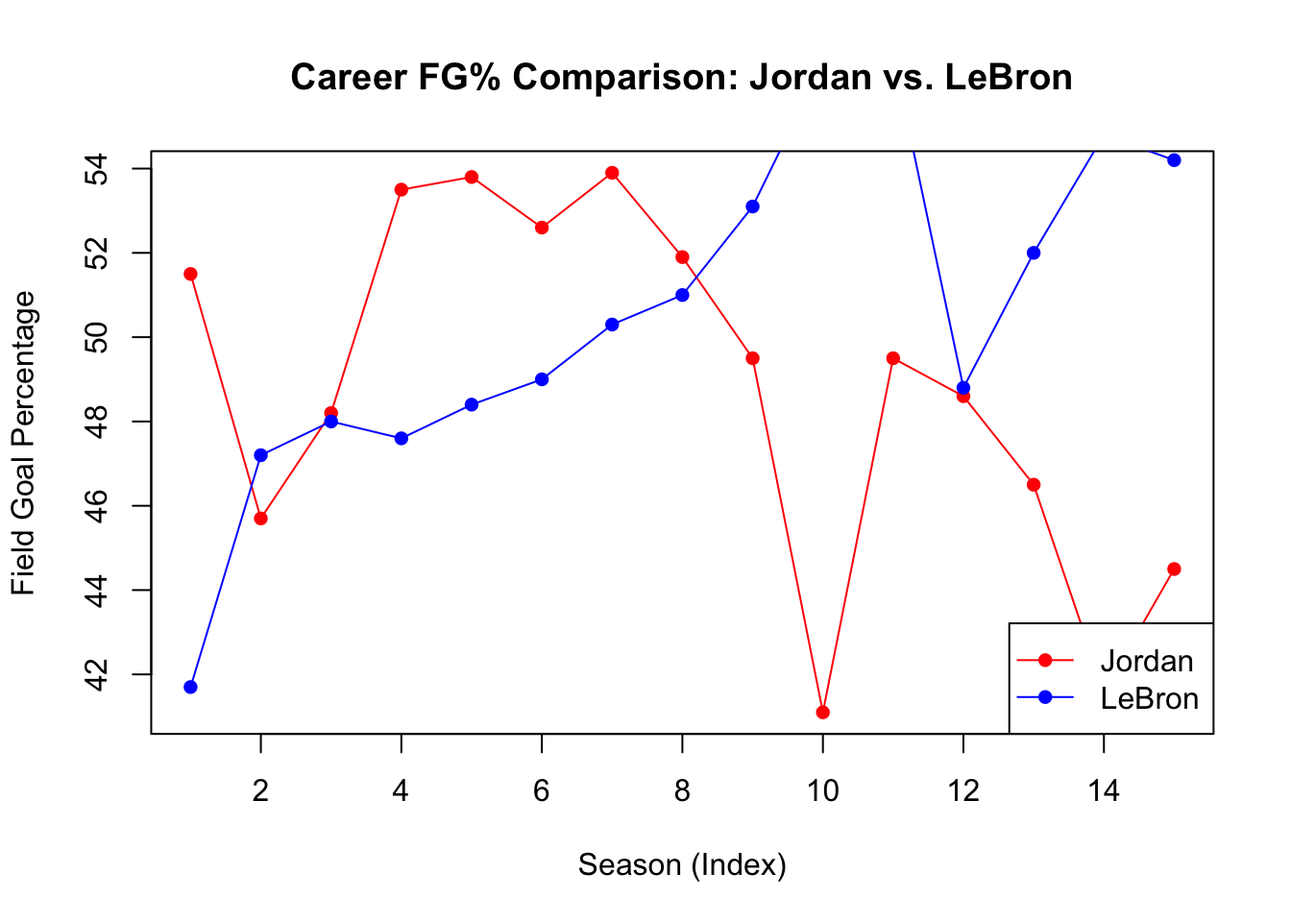
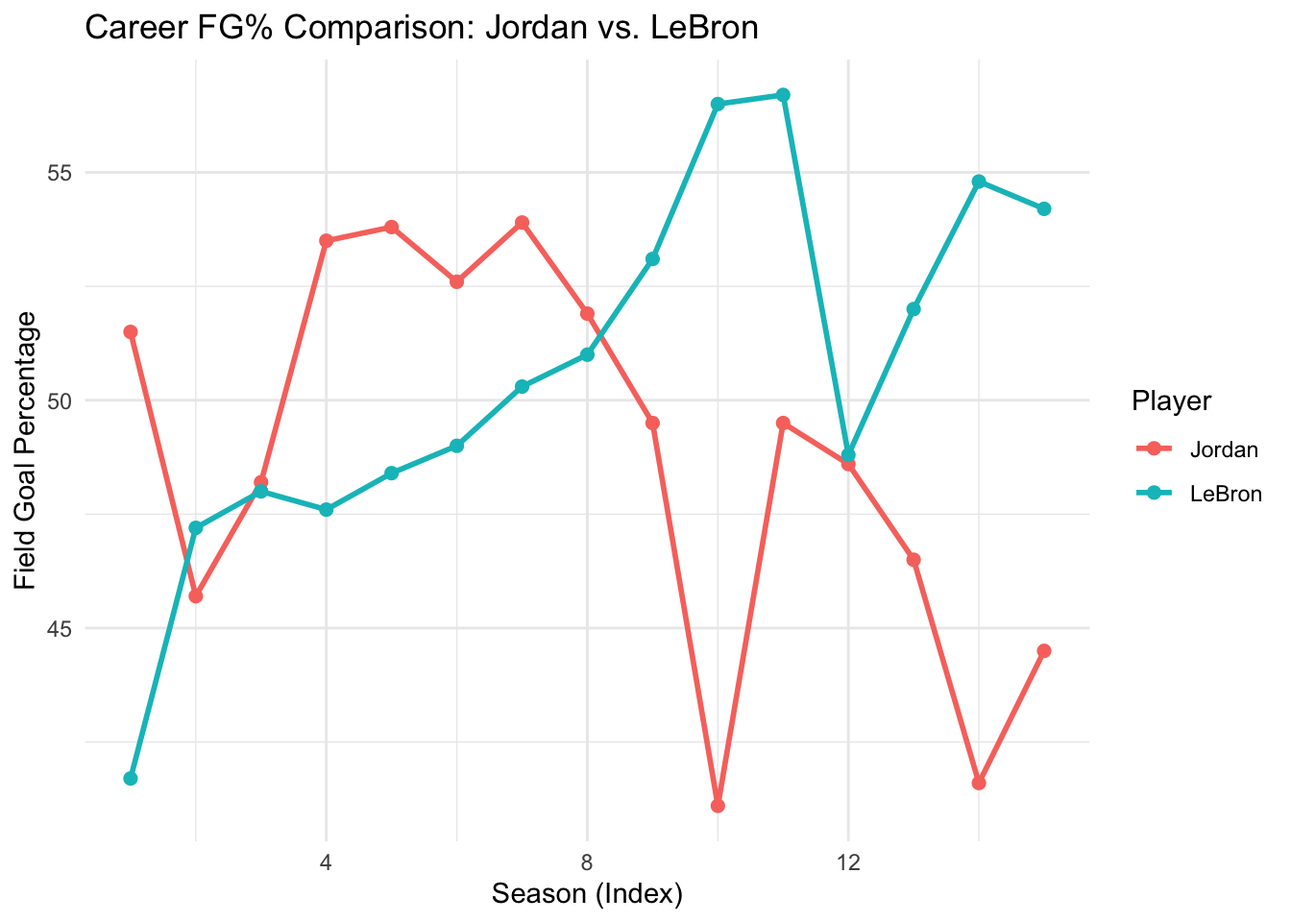
made edits

diff --git a/index.html b/index.html
@@ -163,11 +163,36 @@ pre > code.sourceCode > span > a:first-child::before { text-decoration: underlin
 <p>Milestone Progression</p>
 <p>One of the first indicators of LeBron’s scoring prowess is how quickly he reached key milestones. LeBron surpassed 10,000, 20,000, and 30,000 career points faster than Jordan in terms of games played. This achievement is a testament not only to his scoring consistency but also to his ability to perform at an elite level over a long career. Jordan was undoubtedly explosive, but LeBron’s sustained dominance over more games shows his efficiency and adaptability in scoring across eras, teams, and playstyles.</p>
 <div class="cell">
+<div class="sourceCode cell-code" id="cb1"><pre class="sourceCode r code-with-copy"><code class="sourceCode r"><span id="cb1-1"><a href="#cb1-1" aria-hidden="true" tabindex="-1"></a><span class="co"># Load ggplot2 library</span></span>
+<span id="cb1-2"><a href="#cb1-2" aria-hidden="true" tabindex="-1"></a><span class="fu">library</span>(ggplot2)</span>
+<span id="cb1-3"><a href="#cb1-3" aria-hidden="true" tabindex="-1"></a></span>
+<span id="cb1-4"><a href="#cb1-4" aria-hidden="true" tabindex="-1"></a><span class="co"># Milestone progression data</span></span>
+<span id="cb1-5"><a href="#cb1-5" aria-hidden="true" tabindex="-1"></a>milestones <span class="ot">&lt;-</span> <span class="fu">data.frame</span>(</span>
+<span id="cb1-6"><a href="#cb1-6" aria-hidden="true" tabindex="-1"></a>  <span class="at">Player =</span> <span class="fu">c</span>(<span class="st">"Jordan"</span>, <span class="st">"Jordan"</span>, <span class="st">"Jordan"</span>, <span class="st">"LeBron"</span>, <span class="st">"LeBron"</span>, <span class="st">"LeBron"</span>),</span>
+<span id="cb1-7"><a href="#cb1-7" aria-hidden="true" tabindex="-1"></a>  <span class="at">Milestone =</span> <span class="fu">c</span>(<span class="dv">10000</span>, <span class="dv">20000</span>, <span class="dv">30000</span>, <span class="dv">10000</span>, <span class="dv">20000</span>, <span class="dv">30000</span>),</span>
+<span id="cb1-8"><a href="#cb1-8" aria-hidden="true" tabindex="-1"></a>  <span class="at">Games_Played =</span> <span class="fu">c</span>(<span class="dv">303</span>, <span class="dv">620</span>, <span class="dv">960</span>, <span class="dv">368</span>, <span class="dv">726</span>, <span class="dv">1072</span>)</span>
+<span id="cb1-9"><a href="#cb1-9" aria-hidden="true" tabindex="-1"></a>)</span>
+<span id="cb1-10"><a href="#cb1-10" aria-hidden="true" tabindex="-1"></a></span>
+<span id="cb1-11"><a href="#cb1-11" aria-hidden="true" tabindex="-1"></a><span class="co"># Plotting the milestone progression using ggplot2</span></span>
+<span id="cb1-12"><a href="#cb1-12" aria-hidden="true" tabindex="-1"></a><span class="fu">ggplot</span>(milestones, <span class="fu">aes</span>(<span class="at">x =</span> Games_Played, <span class="at">y =</span> Milestone, <span class="at">color =</span> Player, <span class="at">group =</span> Player)) <span class="sc">+</span></span>
+<span id="cb1-13"><a href="#cb1-13" aria-hidden="true" tabindex="-1"></a>  <span class="fu">geom_line</span>(<span class="at">size =</span> <span class="fl">1.2</span>) <span class="sc">+</span></span>
+<span id="cb1-14"><a href="#cb1-14" aria-hidden="true" tabindex="-1"></a>  <span class="fu">geom_point</span>(<span class="at">size =</span> <span class="dv">3</span>) <span class="sc">+</span></span>
+<span id="cb1-15"><a href="#cb1-15" aria-hidden="true" tabindex="-1"></a>  <span class="fu">scale_color_manual</span>(<span class="at">values =</span> <span class="fu">c</span>(<span class="st">"Jordan"</span> <span class="ot">=</span> <span class="st">"red"</span>, <span class="st">"LeBron"</span> <span class="ot">=</span> <span class="st">"blue"</span>)) <span class="sc">+</span></span>
+<span id="cb1-16"><a href="#cb1-16" aria-hidden="true" tabindex="-1"></a>  <span class="fu">labs</span>(</span>
+<span id="cb1-17"><a href="#cb1-17" aria-hidden="true" tabindex="-1"></a>    <span class="at">title =</span> <span class="st">"Scoring Milestones: Jordan vs. LeBron"</span>,</span>
+<span id="cb1-18"><a href="#cb1-18" aria-hidden="true" tabindex="-1"></a>    <span class="at">x =</span> <span class="st">"Games Played"</span>,</span>
+<span id="cb1-19"><a href="#cb1-19" aria-hidden="true" tabindex="-1"></a>    <span class="at">y =</span> <span class="st">"Points"</span>,</span>
+<span id="cb1-20"><a href="#cb1-20" aria-hidden="true" tabindex="-1"></a>    <span class="at">color =</span> <span class="st">"Player"</span></span>
+<span id="cb1-21"><a href="#cb1-21" aria-hidden="true" tabindex="-1"></a>  ) <span class="sc">+</span></span>
+<span id="cb1-22"><a href="#cb1-22" aria-hidden="true" tabindex="-1"></a>  <span class="fu">theme_minimal</span>()</span></code><button title="Copy to Clipboard" class="code-copy-button"><i class="bi"></i></button></pre></div>
+<div class="cell-output cell-output-stderr">
+<pre><code>Warning: Using `size` aesthetic for lines was deprecated in ggplot2 3.4.0.
+ℹ Please use `linewidth` instead.</code></pre>
+</div>
 <div class="cell-output-display">
-<div class="quarto-figure quarto-figure-center">
+<div>
 <figure class="figure">
-<p><img src="index_files/figure-html/milestone-progression-chart-1.png" class="img-fluid figure-img" width="672"></p>
-<figcaption>Milestone Progression Chart: Jordan vs.&nbsp;LeBron</figcaption>
+<p><img src="index_files/figure-html/unnamed-chunk-1-1.png" class="img-fluid figure-img" width="672"></p>
 </figure>
 </div>
 </div>
@@ -175,22 +200,30 @@ pre > code.sourceCode > span > a:first-child::before { text-decoration: underlin
 <p>Field Goal Percentage Over Their Careers</p>
 <p>Efficiency is another major factor in this debate. Over their careers, LeBron has consistently maintained a higher field goal percentage compared to Jordan. Even as LeBron aged, his shooting percentages remained strong, thanks to his ability to evolve his game. From attacking the rim to developing a more polished jump shot, LeBron has shown a level of efficiency that few players in NBA history can match. While Jordan had legendary scoring bursts, his efficiency often fluctuated due to his heavy reliance on mid-range shots and the physical toll of his style of play.</p>
 <div class="cell">
-<div class="sourceCode cell-code" id="cb1"><pre class="sourceCode r code-with-copy"><code class="sourceCode r"><span id="cb1-1"><a href="#cb1-1" aria-hidden="true" tabindex="-1"></a><span class="co"># Data for Jordan and LeBron</span></span>
-<span id="cb1-2"><a href="#cb1-2" aria-hidden="true" tabindex="-1"></a>jordan_data <span class="ot">&lt;-</span> <span class="fu">data.frame</span>(</span>
-<span id="cb1-3"><a href="#cb1-3" aria-hidden="true" tabindex="-1"></a>    <span class="at">season =</span> <span class="dv">1</span><span class="sc">:</span><span class="dv">15</span>,</span>
-<span id="cb1-4"><a href="#cb1-4" aria-hidden="true" tabindex="-1"></a>    <span class="at">FG_Percentage =</span> <span class="fu">c</span>(<span class="fl">51.5</span>, <span class="fl">45.7</span>, <span class="fl">48.2</span>, <span class="fl">53.5</span>, <span class="fl">53.8</span>, <span class="fl">52.6</span>, <span class="fl">53.9</span>, <span class="fl">51.9</span>, <span class="fl">49.5</span>, <span class="fl">41.1</span>, <span class="fl">49.5</span>, <span class="fl">48.6</span>, <span class="fl">46.5</span>, <span class="fl">41.6</span>, <span class="fl">44.5</span>)</span>
-<span id="cb1-5"><a href="#cb1-5" aria-hidden="true" tabindex="-1"></a>)</span>
-<span id="cb1-6"><a href="#cb1-6" aria-hidden="true" tabindex="-1"></a> </span>
-<span id="cb1-7"><a href="#cb1-7" aria-hidden="true" tabindex="-1"></a>lebron_data <span class="ot">&lt;-</span> <span class="fu">data.frame</span>(</span>
-<span id="cb1-8"><a href="#cb1-8" aria-hidden="true" tabindex="-1"></a>    <span class="at">season =</span> <span class="dv">1</span><span class="sc">:</span><span class="dv">15</span>,</span>
-<span id="cb1-9"><a href="#cb1-9" aria-hidden="true" tabindex="-1"></a>    <span class="at">FG_Percentage =</span> <span class="fu">c</span>(<span class="fl">41.7</span>, <span class="fl">47.2</span>, <span class="fl">48.0</span>, <span class="fl">47.6</span>, <span class="fl">48.4</span>, <span class="fl">49.0</span>, <span class="fl">50.3</span>, <span class="fl">51.0</span>, <span class="fl">53.1</span>, <span class="fl">56.5</span>, <span class="fl">56.7</span>, <span class="fl">48.8</span>, <span class="fl">52.0</span>, <span class="fl">54.8</span>, <span class="fl">54.2</span>)</span>
-<span id="cb1-10"><a href="#cb1-10" aria-hidden="true" tabindex="-1"></a>)</span>
-<span id="cb1-11"><a href="#cb1-11" aria-hidden="true" tabindex="-1"></a> </span>
-<span id="cb1-12"><a href="#cb1-12" aria-hidden="true" tabindex="-1"></a><span class="co"># Field Goal Percentage Line Plot</span></span>
-<span id="cb1-13"><a href="#cb1-13" aria-hidden="true" tabindex="-1"></a><span class="fu">plot</span>(jordan_data<span class="sc">$</span>season, jordan_data<span class="sc">$</span>FG_Percentage, <span class="at">type=</span><span class="st">"o"</span>, <span class="at">col=</span><span class="st">"red"</span>, <span class="at">pch=</span><span class="dv">16</span>,</span>
-<span id="cb1-14"><a href="#cb1-14" aria-hidden="true" tabindex="-1"></a>    <span class="at">xlab=</span><span class="st">"Season (Index)"</span>, <span class="at">ylab=</span><span class="st">"Field Goal Percentage"</span>, <span class="at">main=</span><span class="st">"Career FG% Comparison: Jordan vs. LeBron"</span>)</span>
-<span id="cb1-15"><a href="#cb1-15" aria-hidden="true" tabindex="-1"></a><span class="fu">lines</span>(lebron_data<span class="sc">$</span>season, lebron_data<span class="sc">$</span>FG_Percentage, <span class="at">type=</span><span class="st">"o"</span>, <span class="at">col=</span><span class="st">"blue"</span>, <span class="at">pch=</span><span class="dv">16</span>)</span>
-<span id="cb1-16"><a href="#cb1-16" aria-hidden="true" tabindex="-1"></a><span class="fu">legend</span>(<span class="st">"bottomright"</span>, <span class="at">legend=</span><span class="fu">c</span>(<span class="st">"Jordan"</span>, <span class="st">"LeBron"</span>), <span class="at">col=</span><span class="fu">c</span>(<span class="st">"red"</span>, <span class="st">"blue"</span>), <span class="at">lty=</span><span class="dv">1</span>, <span class="at">pch=</span><span class="dv">16</span>)</span></code><button title="Copy to Clipboard" class="code-copy-button"><i class="bi"></i></button></pre></div>
+<div class="sourceCode cell-code" id="cb3"><pre class="sourceCode r code-with-copy"><code class="sourceCode r"><span id="cb3-1"><a href="#cb3-1" aria-hidden="true" tabindex="-1"></a><span class="co"># Load the ggplot2 library</span></span>
+<span id="cb3-2"><a href="#cb3-2" aria-hidden="true" tabindex="-1"></a><span class="fu">library</span>(ggplot2)</span>
+<span id="cb3-3"><a href="#cb3-3" aria-hidden="true" tabindex="-1"></a></span>
+<span id="cb3-4"><a href="#cb3-4" aria-hidden="true" tabindex="-1"></a><span class="co"># Combine Jordan and LeBron data into one dataframe</span></span>
+<span id="cb3-5"><a href="#cb3-5" aria-hidden="true" tabindex="-1"></a>combined_data <span class="ot">&lt;-</span> <span class="fu">data.frame</span>(</span>
+<span id="cb3-6"><a href="#cb3-6" aria-hidden="true" tabindex="-1"></a>  <span class="at">season =</span> <span class="fu">rep</span>(<span class="dv">1</span><span class="sc">:</span><span class="dv">15</span>, <span class="dv">2</span>),</span>
+<span id="cb3-7"><a href="#cb3-7" aria-hidden="true" tabindex="-1"></a>  <span class="at">FG_Percentage =</span> <span class="fu">c</span>(</span>
+<span id="cb3-8"><a href="#cb3-8" aria-hidden="true" tabindex="-1"></a>    <span class="fu">c</span>(<span class="fl">51.5</span>, <span class="fl">45.7</span>, <span class="fl">48.2</span>, <span class="fl">53.5</span>, <span class="fl">53.8</span>, <span class="fl">52.6</span>, <span class="fl">53.9</span>, <span class="fl">51.9</span>, <span class="fl">49.5</span>, <span class="fl">41.1</span>, <span class="fl">49.5</span>, <span class="fl">48.6</span>, <span class="fl">46.5</span>, <span class="fl">41.6</span>, <span class="fl">44.5</span>),</span>
+<span id="cb3-9"><a href="#cb3-9" aria-hidden="true" tabindex="-1"></a>    <span class="fu">c</span>(<span class="fl">41.7</span>, <span class="fl">47.2</span>, <span class="fl">48.0</span>, <span class="fl">47.6</span>, <span class="fl">48.4</span>, <span class="fl">49.0</span>, <span class="fl">50.3</span>, <span class="fl">51.0</span>, <span class="fl">53.1</span>, <span class="fl">56.5</span>, <span class="fl">56.7</span>, <span class="fl">48.8</span>, <span class="fl">52.0</span>, <span class="fl">54.8</span>, <span class="fl">54.2</span>)</span>
+<span id="cb3-10"><a href="#cb3-10" aria-hidden="true" tabindex="-1"></a>  ),</span>
+<span id="cb3-11"><a href="#cb3-11" aria-hidden="true" tabindex="-1"></a>  <span class="at">Player =</span> <span class="fu">rep</span>(<span class="fu">c</span>(<span class="st">"Jordan"</span>, <span class="st">"LeBron"</span>), <span class="at">each =</span> <span class="dv">15</span>)</span>
+<span id="cb3-12"><a href="#cb3-12" aria-hidden="true" tabindex="-1"></a>)</span>
+<span id="cb3-13"><a href="#cb3-13" aria-hidden="true" tabindex="-1"></a></span>
+<span id="cb3-14"><a href="#cb3-14" aria-hidden="true" tabindex="-1"></a><span class="co"># Plot using ggplot2</span></span>
+<span id="cb3-15"><a href="#cb3-15" aria-hidden="true" tabindex="-1"></a><span class="fu">ggplot</span>(combined_data, <span class="fu">aes</span>(<span class="at">x =</span> season, <span class="at">y =</span> FG_Percentage, <span class="at">color =</span> Player, <span class="at">group =</span> Player)) <span class="sc">+</span></span>
+<span id="cb3-16"><a href="#cb3-16" aria-hidden="true" tabindex="-1"></a>  <span class="fu">geom_line</span>(<span class="at">size =</span> <span class="dv">1</span>) <span class="sc">+</span></span>
+<span id="cb3-17"><a href="#cb3-17" aria-hidden="true" tabindex="-1"></a>  <span class="fu">geom_point</span>(<span class="at">size =</span> <span class="dv">2</span>) <span class="sc">+</span></span>
+<span id="cb3-18"><a href="#cb3-18" aria-hidden="true" tabindex="-1"></a>  <span class="fu">labs</span>(</span>
+<span id="cb3-19"><a href="#cb3-19" aria-hidden="true" tabindex="-1"></a>    <span class="at">title =</span> <span class="st">"Career FG% Comparison: Jordan vs. LeBron"</span>,</span>
+<span id="cb3-20"><a href="#cb3-20" aria-hidden="true" tabindex="-1"></a>    <span class="at">x =</span> <span class="st">"Season (Index)"</span>,</span>
+<span id="cb3-21"><a href="#cb3-21" aria-hidden="true" tabindex="-1"></a>    <span class="at">y =</span> <span class="st">"Field Goal Percentage"</span>,</span>
+<span id="cb3-22"><a href="#cb3-22" aria-hidden="true" tabindex="-1"></a>    <span class="at">color =</span> <span class="st">"Player"</span></span>
+<span id="cb3-23"><a href="#cb3-23" aria-hidden="true" tabindex="-1"></a>  ) <span class="sc">+</span></span>
+<span id="cb3-24"><a href="#cb3-24" aria-hidden="true" tabindex="-1"></a>  <span class="fu">theme_minimal</span>()</span></code><button title="Copy to Clipboard" class="code-copy-button"><i class="bi"></i></button></pre></div>
 <div class="cell-output-display">
 <div>
 <figure class="figure">
@@ -202,17 +235,27 @@ pre > code.sourceCode > span > a:first-child::before { text-decoration: underlin
 <p>Scoring Breakdown by Type</p>
 <p>LeBron’s versatility in scoring is unmatched. While Jordan was dominant with his mid-range game and ability to draw fouls, LeBron scores in every way imaginable. The breakdown of their points tells the story: LeBron has a significantly higher volume of three-pointers, showing his ability to adapt to the modern NBA. His balance of two-point, three-point, and free-throw scoring makes him a more well-rounded offensive threat</p>
 <div class="cell">
-<div class="sourceCode cell-code" id="cb2"><pre class="sourceCode r code-with-copy"><code class="sourceCode r"><span id="cb2-1"><a href="#cb2-1" aria-hidden="true" tabindex="-1"></a><span class="co"># Scoring breakdown data</span></span>
-<span id="cb2-2"><a href="#cb2-2" aria-hidden="true" tabindex="-1"></a>scoring_types <span class="ot">&lt;-</span> <span class="fu">c</span>(<span class="st">"2-Pointers"</span>, <span class="st">"3-Pointers"</span>, <span class="st">"Free Throws"</span>)</span>
-<span id="cb2-3"><a href="#cb2-3" aria-hidden="true" tabindex="-1"></a>jordan_scoring <span class="ot">&lt;-</span> <span class="fu">c</span>(<span class="dv">12192</span>, <span class="dv">581</span>, <span class="dv">7327</span>)</span>
-<span id="cb2-4"><a href="#cb2-4" aria-hidden="true" tabindex="-1"></a>lebron_scoring <span class="ot">&lt;-</span> <span class="fu">c</span>(<span class="dv">15000</span>, <span class="dv">2300</span>, <span class="dv">7800</span>)</span>
-<span id="cb2-5"><a href="#cb2-5" aria-hidden="true" tabindex="-1"></a> </span>
-<span id="cb2-6"><a href="#cb2-6" aria-hidden="true" tabindex="-1"></a><span class="co"># Line plot for scoring breakdown</span></span>
-<span id="cb2-7"><a href="#cb2-7" aria-hidden="true" tabindex="-1"></a><span class="fu">plot</span>(<span class="dv">1</span><span class="sc">:</span><span class="dv">3</span>, jordan_scoring, <span class="at">type=</span><span class="st">"o"</span>, <span class="at">col=</span><span class="st">"red"</span>, <span class="at">pch=</span><span class="dv">16</span>, <span class="at">xaxt=</span><span class="st">"n"</span>,</span>
-<span id="cb2-8"><a href="#cb2-8" aria-hidden="true" tabindex="-1"></a>    <span class="at">xlab=</span><span class="st">"Scoring Type"</span>, <span class="at">ylab=</span><span class="st">"Points"</span>, <span class="at">main=</span><span class="st">"Scoring Breakdown: Jordan vs. LeBron"</span>)</span>
-<span id="cb2-9"><a href="#cb2-9" aria-hidden="true" tabindex="-1"></a><span class="fu">axis</span>(<span class="dv">1</span>, <span class="at">at=</span><span class="dv">1</span><span class="sc">:</span><span class="dv">3</span>, <span class="at">labels=</span>scoring_types)</span>
-<span id="cb2-10"><a href="#cb2-10" aria-hidden="true" tabindex="-1"></a><span class="fu">lines</span>(<span class="dv">1</span><span class="sc">:</span><span class="dv">3</span>, lebron_scoring, <span class="at">type=</span><span class="st">"o"</span>, <span class="at">col=</span><span class="st">"blue"</span>, <span class="at">pch=</span><span class="dv">16</span>)</span>
-<span id="cb2-11"><a href="#cb2-11" aria-hidden="true" tabindex="-1"></a><span class="fu">legend</span>(<span class="st">"topright"</span>, <span class="at">legend=</span><span class="fu">c</span>(<span class="st">"Jordan"</span>, <span class="st">"LeBron"</span>), <span class="at">col=</span><span class="fu">c</span>(<span class="st">"red"</span>, <span class="st">"blue"</span>), <span class="at">lty=</span><span class="dv">1</span>, <span class="at">pch=</span><span class="dv">16</span>)</span></code><button title="Copy to Clipboard" class="code-copy-button"><i class="bi"></i></button></pre></div>
+<div class="sourceCode cell-code" id="cb4"><pre class="sourceCode r code-with-copy"><code class="sourceCode r"><span id="cb4-1"><a href="#cb4-1" aria-hidden="true" tabindex="-1"></a><span class="co"># Load the ggplot2 library</span></span>
+<span id="cb4-2"><a href="#cb4-2" aria-hidden="true" tabindex="-1"></a><span class="fu">library</span>(ggplot2)</span>
+<span id="cb4-3"><a href="#cb4-3" aria-hidden="true" tabindex="-1"></a></span>
+<span id="cb4-4"><a href="#cb4-4" aria-hidden="true" tabindex="-1"></a><span class="co"># Combine Jordan and LeBron data into one dataframe</span></span>
+<span id="cb4-5"><a href="#cb4-5" aria-hidden="true" tabindex="-1"></a>scoring_data <span class="ot">&lt;-</span> <span class="fu">data.frame</span>(</span>
+<span id="cb4-6"><a href="#cb4-6" aria-hidden="true" tabindex="-1"></a>  <span class="at">Scoring_Type =</span> <span class="fu">rep</span>(<span class="fu">c</span>(<span class="st">"2-Pointers"</span>, <span class="st">"3-Pointers"</span>, <span class="st">"Free Throws"</span>), <span class="dv">2</span>),</span>
+<span id="cb4-7"><a href="#cb4-7" aria-hidden="true" tabindex="-1"></a>  <span class="at">Points =</span> <span class="fu">c</span>(<span class="dv">12192</span>, <span class="dv">581</span>, <span class="dv">7327</span>, <span class="dv">15000</span>, <span class="dv">2300</span>, <span class="dv">7800</span>),</span>
+<span id="cb4-8"><a href="#cb4-8" aria-hidden="true" tabindex="-1"></a>  <span class="at">Player =</span> <span class="fu">rep</span>(<span class="fu">c</span>(<span class="st">"Jordan"</span>, <span class="st">"LeBron"</span>), <span class="at">each =</span> <span class="dv">3</span>)</span>
+<span id="cb4-9"><a href="#cb4-9" aria-hidden="true" tabindex="-1"></a>)</span>
+<span id="cb4-10"><a href="#cb4-10" aria-hidden="true" tabindex="-1"></a></span>
+<span id="cb4-11"><a href="#cb4-11" aria-hidden="true" tabindex="-1"></a><span class="co"># Plot using ggplot2</span></span>
+<span id="cb4-12"><a href="#cb4-12" aria-hidden="true" tabindex="-1"></a><span class="fu">ggplot</span>(scoring_data, <span class="fu">aes</span>(<span class="at">x =</span> Scoring_Type, <span class="at">y =</span> Points, <span class="at">group =</span> Player, <span class="at">color =</span> Player)) <span class="sc">+</span></span>
+<span id="cb4-13"><a href="#cb4-13" aria-hidden="true" tabindex="-1"></a>  <span class="fu">geom_line</span>(<span class="at">size =</span> <span class="dv">1</span>) <span class="sc">+</span></span>
+<span id="cb4-14"><a href="#cb4-14" aria-hidden="true" tabindex="-1"></a>  <span class="fu">geom_point</span>(<span class="at">size =</span> <span class="dv">3</span>) <span class="sc">+</span></span>
+<span id="cb4-15"><a href="#cb4-15" aria-hidden="true" tabindex="-1"></a>  <span class="fu">labs</span>(</span>
+<span id="cb4-16"><a href="#cb4-16" aria-hidden="true" tabindex="-1"></a>    <span class="at">title =</span> <span class="st">"Scoring Breakdown: Jordan vs. LeBron"</span>,</span>
+<span id="cb4-17"><a href="#cb4-17" aria-hidden="true" tabindex="-1"></a>    <span class="at">x =</span> <span class="st">"Scoring Type"</span>,</span>
+<span id="cb4-18"><a href="#cb4-18" aria-hidden="true" tabindex="-1"></a>    <span class="at">y =</span> <span class="st">"Points"</span>,</span>
+<span id="cb4-19"><a href="#cb4-19" aria-hidden="true" tabindex="-1"></a>    <span class="at">color =</span> <span class="st">"Player"</span></span>
+<span id="cb4-20"><a href="#cb4-20" aria-hidden="true" tabindex="-1"></a>  ) <span class="sc">+</span></span>
+<span id="cb4-21"><a href="#cb4-21" aria-hidden="true" tabindex="-1"></a>  <span class="fu">theme_minimal</span>()</span></code><button title="Copy to Clipboard" class="code-copy-button"><i class="bi"></i></button></pre></div>
 <div class="cell-output-display">
 <div>
 <figure class="figure">
@@ -224,22 +267,70 @@ pre > code.sourceCode > span > a:first-child::before { text-decoration: underlin
 <p>Points Per Game Over the Seasons</p>
 <p>Consistency is where LeBron truly shines. Over 15 seasons, LeBron’s points-per-game averages remained remarkably stable, with almost no major dips even as he entered the latter stages of his career. Jordan, on the other hand, had a few seasons where his scoring dipped noticeably, particularly during his comeback years. LeBron’s ability to consistently produce at a high level, regardless of the team he’s on or the system he’s in, demonstrates his unparalleled durability and impact as a scorer.</p>
 <div class="cell">
-<div class="sourceCode cell-code" id="cb3"><pre class="sourceCode r code-with-copy"><code class="sourceCode r"><span id="cb3-1"><a href="#cb3-1" aria-hidden="true" tabindex="-1"></a><span class="co"># Data for Jordan and LeBron</span></span>
-<span id="cb3-2"><a href="#cb3-2" aria-hidden="true" tabindex="-1"></a>jordan_points <span class="ot">&lt;-</span> <span class="fu">data.frame</span>(</span>
-<span id="cb3-3"><a href="#cb3-3" aria-hidden="true" tabindex="-1"></a>    <span class="at">season =</span> <span class="dv">1</span><span class="sc">:</span><span class="dv">15</span>,</span>
-<span id="cb3-4"><a href="#cb3-4" aria-hidden="true" tabindex="-1"></a>    <span class="at">PTS =</span> <span class="fu">c</span>(<span class="fl">28.2</span>, <span class="fl">22.7</span>, <span class="fl">37.1</span>, <span class="fl">35.0</span>, <span class="fl">32.5</span>, <span class="fl">33.6</span>, <span class="fl">31.5</span>, <span class="fl">30.1</span>, <span class="fl">32.6</span>, <span class="fl">26.9</span>, <span class="fl">30.4</span>, <span class="fl">29.6</span>, <span class="fl">28.7</span>, <span class="fl">22.9</span>, <span class="fl">20.0</span>)</span>
-<span id="cb3-5"><a href="#cb3-5" aria-hidden="true" tabindex="-1"></a>)</span>
-<span id="cb3-6"><a href="#cb3-6" aria-hidden="true" tabindex="-1"></a> </span>
-<span id="cb3-7"><a href="#cb3-7" aria-hidden="true" tabindex="-1"></a>lebron_points <span class="ot">&lt;-</span> <span class="fu">data.frame</span>(</span>
-<span id="cb3-8"><a href="#cb3-8" aria-hidden="true" tabindex="-1"></a>    <span class="at">season =</span> <span class="dv">1</span><span class="sc">:</span><span class="dv">15</span>,</span>
-<span id="cb3-9"><a href="#cb3-9" aria-hidden="true" tabindex="-1"></a>    <span class="at">PTS =</span> <span class="fu">c</span>(<span class="fl">20.9</span>, <span class="fl">27.2</span>, <span class="fl">31.4</span>, <span class="fl">27.3</span>, <span class="fl">30.0</span>, <span class="fl">28.4</span>, <span class="fl">29.7</span>, <span class="fl">26.7</span>, <span class="fl">27.1</span>, <span class="fl">27.1</span>, <span class="fl">27.1</span>, <span class="fl">25.3</span>, <span class="fl">25.3</span>, <span class="fl">26.4</span>, <span class="fl">27.5</span>)</span>
-<span id="cb3-10"><a href="#cb3-10" aria-hidden="true" tabindex="-1"></a>)</span>
-<span id="cb3-11"><a href="#cb3-11" aria-hidden="true" tabindex="-1"></a> </span>
-<span id="cb3-12"><a href="#cb3-12" aria-hidden="true" tabindex="-1"></a><span class="co"># Line Plot for Points Per Game Over Seasons</span></span>
-<span id="cb3-13"><a href="#cb3-13" aria-hidden="true" tabindex="-1"></a><span class="fu">plot</span>(jordan_points<span class="sc">$</span>season, jordan_points<span class="sc">$</span>PTS, <span class="at">type=</span><span class="st">"o"</span>, <span class="at">col=</span><span class="st">"red"</span>, <span class="at">pch=</span><span class="dv">16</span>,</span>
-<span id="cb3-14"><a href="#cb3-14" aria-hidden="true" tabindex="-1"></a>    <span class="at">xlab=</span><span class="st">"Season (Index)"</span>, <span class="at">ylab=</span><span class="st">"Points Per Game"</span>, <span class="at">main=</span><span class="st">"PPG Comparison: Jordan vs. LeBron"</span>)</span>
-<span id="cb3-15"><a href="#cb3-15" aria-hidden="true" tabindex="-1"></a><span class="fu">lines</span>(lebron_points<span class="sc">$</span>season, lebron_points<span class="sc">$</span>PTS, <span class="at">type=</span><span class="st">"o"</span>, <span class="at">col=</span><span class="st">"blue"</span>, <span class="at">pch=</span><span class="dv">16</span>)</span>
-<span id="cb3-16"><a href="#cb3-16" aria-hidden="true" tabindex="-1"></a><span class="fu">legend</span>(<span class="st">"topright"</span>, <span class="at">legend=</span><span class="fu">c</span>(<span class="st">"Jordan"</span>, <span class="st">"LeBron"</span>), <span class="at">col=</span><span class="fu">c</span>(<span class="st">"red"</span>, <span class="st">"blue"</span>), <span class="at">lty=</span><span class="dv">1</span>, <span class="at">pch=</span><span class="dv">16</span>)</span></code><button title="Copy to Clipboard" class="code-copy-button"><i class="bi"></i></button></pre></div>
+<div class="sourceCode cell-code" id="cb5"><pre class="sourceCode r code-with-copy"><code class="sourceCode r"><span id="cb5-1"><a href="#cb5-1" aria-hidden="true" tabindex="-1"></a><span class="co"># Load required libraries</span></span>
+<span id="cb5-2"><a href="#cb5-2" aria-hidden="true" tabindex="-1"></a><span class="fu">library</span>(ggplot2)</span>
+<span id="cb5-3"><a href="#cb5-3" aria-hidden="true" tabindex="-1"></a><span class="fu">library</span>(dplyr)</span></code><button title="Copy to Clipboard" class="code-copy-button"><i class="bi"></i></button></pre></div>
+<div class="cell-output cell-output-stderr">
+<pre><code>
+Attaching package: 'dplyr'</code></pre>
+</div>
+<div class="cell-output cell-output-stderr">
+<pre><code>The following objects are masked from 'package:stats':
+
+    filter, lag</code></pre>
+</div>
+<div class="cell-output cell-output-stderr">
+<pre><code>The following objects are masked from 'package:base':
+
+    intersect, setdiff, setequal, union</code></pre>
+</div>
+<div class="sourceCode cell-code" id="cb9"><pre class="sourceCode r code-with-copy"><code class="sourceCode r"><span id="cb9-1"><a href="#cb9-1" aria-hidden="true" tabindex="-1"></a><span class="fu">library</span>(tidyr)</span>
+<span id="cb9-2"><a href="#cb9-2" aria-hidden="true" tabindex="-1"></a></span>
+<span id="cb9-3"><a href="#cb9-3" aria-hidden="true" tabindex="-1"></a><span class="co"># Data: Breakdown of total points by scoring method</span></span>
+<span id="cb9-4"><a href="#cb9-4" aria-hidden="true" tabindex="-1"></a>scoring_breakdown <span class="ot">&lt;-</span> <span class="fu">data.frame</span>(</span>
+<span id="cb9-5"><a href="#cb9-5" aria-hidden="true" tabindex="-1"></a>  <span class="at">Player =</span> <span class="fu">rep</span>(<span class="fu">c</span>(<span class="st">"Jordan"</span>, <span class="st">"LeBron"</span>), <span class="at">each =</span> <span class="dv">3</span>),</span>
+<span id="cb9-6"><a href="#cb9-6" aria-hidden="true" tabindex="-1"></a>  <span class="at">Scoring_Type =</span> <span class="fu">c</span>(<span class="st">"2-Pointers"</span>, <span class="st">"3-Pointers"</span>, <span class="st">"Free Throws"</span>, <span class="st">"2-Pointers"</span>, <span class="st">"3-Pointers"</span>, <span class="st">"Free Throws"</span>),</span>
+<span id="cb9-7"><a href="#cb9-7" aria-hidden="true" tabindex="-1"></a>  <span class="at">Points =</span> <span class="fu">c</span>(<span class="dv">12192</span>, <span class="dv">581</span>, <span class="dv">7327</span>, <span class="dv">15000</span>, <span class="dv">2300</span>, <span class="dv">7800</span>)</span>
+<span id="cb9-8"><a href="#cb9-8" aria-hidden="true" tabindex="-1"></a>)</span>
+<span id="cb9-9"><a href="#cb9-9" aria-hidden="true" tabindex="-1"></a></span>
+<span id="cb9-10"><a href="#cb9-10" aria-hidden="true" tabindex="-1"></a><span class="co"># Calculate percentages for waffle chart proportions</span></span>
+<span id="cb9-11"><a href="#cb9-11" aria-hidden="true" tabindex="-1"></a>scoring_breakdown <span class="ot">&lt;-</span> scoring_breakdown <span class="sc">%&gt;%</span></span>
+<span id="cb9-12"><a href="#cb9-12" aria-hidden="true" tabindex="-1"></a>  <span class="fu">group_by</span>(Player) <span class="sc">%&gt;%</span></span>
+<span id="cb9-13"><a href="#cb9-13" aria-hidden="true" tabindex="-1"></a>  <span class="fu">mutate</span>(<span class="at">Percent =</span> Points <span class="sc">/</span> <span class="fu">sum</span>(Points) <span class="sc">*</span> <span class="dv">100</span>)</span>
+<span id="cb9-14"><a href="#cb9-14" aria-hidden="true" tabindex="-1"></a></span>
+<span id="cb9-15"><a href="#cb9-15" aria-hidden="true" tabindex="-1"></a><span class="co"># Create a waffle dataset for visualization</span></span>
+<span id="cb9-16"><a href="#cb9-16" aria-hidden="true" tabindex="-1"></a>waffle_data <span class="ot">&lt;-</span> scoring_breakdown <span class="sc">%&gt;%</span></span>
+<span id="cb9-17"><a href="#cb9-17" aria-hidden="true" tabindex="-1"></a>  <span class="fu">group_by</span>(Player, Scoring_Type) <span class="sc">%&gt;%</span></span>
+<span id="cb9-18"><a href="#cb9-18" aria-hidden="true" tabindex="-1"></a>  <span class="fu">mutate</span>(<span class="at">Tiles =</span> <span class="fu">round</span>(Percent)) <span class="sc">%&gt;%</span></span>
+<span id="cb9-19"><a href="#cb9-19" aria-hidden="true" tabindex="-1"></a>  <span class="fu">uncount</span>(Tiles)</span>
+<span id="cb9-20"><a href="#cb9-20" aria-hidden="true" tabindex="-1"></a></span>
+<span id="cb9-21"><a href="#cb9-21" aria-hidden="true" tabindex="-1"></a><span class="co"># Add positional information for the waffle chart</span></span>
+<span id="cb9-22"><a href="#cb9-22" aria-hidden="true" tabindex="-1"></a>waffle_data <span class="ot">&lt;-</span> waffle_data <span class="sc">%&gt;%</span></span>
+<span id="cb9-23"><a href="#cb9-23" aria-hidden="true" tabindex="-1"></a>  <span class="fu">group_by</span>(Player) <span class="sc">%&gt;%</span></span>
+<span id="cb9-24"><a href="#cb9-24" aria-hidden="true" tabindex="-1"></a>  <span class="fu">mutate</span>(</span>
+<span id="cb9-25"><a href="#cb9-25" aria-hidden="true" tabindex="-1"></a>    <span class="at">X =</span> (<span class="fu">row_number</span>() <span class="sc">-</span> <span class="dv">1</span>) <span class="sc">%%</span> <span class="dv">10</span> <span class="sc">+</span> <span class="dv">1</span>,</span>
+<span id="cb9-26"><a href="#cb9-26" aria-hidden="true" tabindex="-1"></a>    <span class="at">Y =</span> (<span class="fu">row_number</span>() <span class="sc">-</span> <span class="dv">1</span>) <span class="sc">%/%</span> <span class="dv">10</span> <span class="sc">+</span> <span class="dv">1</span></span>
+<span id="cb9-27"><a href="#cb9-27" aria-hidden="true" tabindex="-1"></a>  )</span>
+<span id="cb9-28"><a href="#cb9-28" aria-hidden="true" tabindex="-1"></a></span>
+<span id="cb9-29"><a href="#cb9-29" aria-hidden="true" tabindex="-1"></a><span class="co"># Plot the waffle chart</span></span>
+<span id="cb9-30"><a href="#cb9-30" aria-hidden="true" tabindex="-1"></a><span class="fu">ggplot</span>(waffle_data, <span class="fu">aes</span>(<span class="at">x =</span> X, <span class="at">y =</span> Y, <span class="at">fill =</span> Scoring_Type)) <span class="sc">+</span></span>
+<span id="cb9-31"><a href="#cb9-31" aria-hidden="true" tabindex="-1"></a>  <span class="fu">geom_tile</span>(<span class="at">color =</span> <span class="st">"white"</span>, <span class="at">size =</span> <span class="fl">0.5</span>) <span class="sc">+</span></span>
+<span id="cb9-32"><a href="#cb9-32" aria-hidden="true" tabindex="-1"></a>  <span class="fu">facet_wrap</span>(<span class="sc">~</span> Player, <span class="at">ncol =</span> <span class="dv">1</span>) <span class="sc">+</span></span>
+<span id="cb9-33"><a href="#cb9-33" aria-hidden="true" tabindex="-1"></a>  <span class="fu">scale_fill_manual</span>(<span class="at">values =</span> <span class="fu">c</span>(<span class="st">"2-Pointers"</span> <span class="ot">=</span> <span class="st">"red"</span>, <span class="st">"3-Pointers"</span> <span class="ot">=</span> <span class="st">"orange"</span>, <span class="st">"Free Throws"</span> <span class="ot">=</span> <span class="st">"yellow"</span>)) <span class="sc">+</span></span>
+<span id="cb9-34"><a href="#cb9-34" aria-hidden="true" tabindex="-1"></a>  <span class="fu">labs</span>(</span>
+<span id="cb9-35"><a href="#cb9-35" aria-hidden="true" tabindex="-1"></a>    <span class="at">title =</span> <span class="st">"Scoring Breakdown: Jordan vs. LeBron"</span>,</span>
+<span id="cb9-36"><a href="#cb9-36" aria-hidden="true" tabindex="-1"></a>    <span class="at">subtitle =</span> <span class="st">"Waffle Chart Showing Total Points by Scoring Method"</span>,</span>
+<span id="cb9-37"><a href="#cb9-37" aria-hidden="true" tabindex="-1"></a>    <span class="at">fill =</span> <span class="st">"Scoring Type"</span>,</span>
+<span id="cb9-38"><a href="#cb9-38" aria-hidden="true" tabindex="-1"></a>    <span class="at">x =</span> <span class="cn">NULL</span>,</span>
+<span id="cb9-39"><a href="#cb9-39" aria-hidden="true" tabindex="-1"></a>    <span class="at">y =</span> <span class="cn">NULL</span></span>
+<span id="cb9-40"><a href="#cb9-40" aria-hidden="true" tabindex="-1"></a>  ) <span class="sc">+</span></span>
+<span id="cb9-41"><a href="#cb9-41" aria-hidden="true" tabindex="-1"></a>  <span class="fu">theme_minimal</span>() <span class="sc">+</span></span>
+<span id="cb9-42"><a href="#cb9-42" aria-hidden="true" tabindex="-1"></a>  <span class="fu">theme</span>(</span>
+<span id="cb9-43"><a href="#cb9-43" aria-hidden="true" tabindex="-1"></a>    <span class="at">panel.grid =</span> <span class="fu">element_blank</span>(),</span>
+<span id="cb9-44"><a href="#cb9-44" aria-hidden="true" tabindex="-1"></a>    <span class="at">axis.text =</span> <span class="fu">element_blank</span>(),</span>
+<span id="cb9-45"><a href="#cb9-45" aria-hidden="true" tabindex="-1"></a>    <span class="at">axis.ticks =</span> <span class="fu">element_blank</span>(),</span>
+<span id="cb9-46"><a href="#cb9-46" aria-hidden="true" tabindex="-1"></a>    <span class="at">legend.position =</span> <span class="st">"bottom"</span></span>
+<span id="cb9-47"><a href="#cb9-47" aria-hidden="true" tabindex="-1"></a>  )</span></code><button title="Copy to Clipboard" class="code-copy-button"><i class="bi"></i></button></pre></div>
 <div class="cell-output-display">
 <div>
 <figure class="figure">
